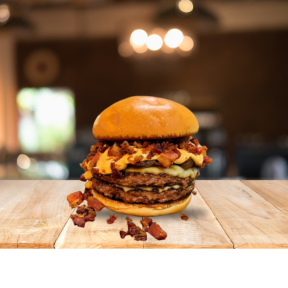
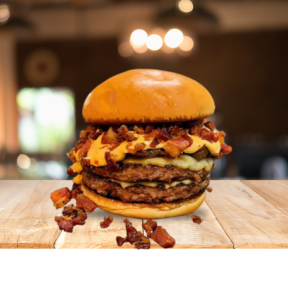
att
atualização de fotos

Changed region(s): [[0.1562, 0.2188, 0.8125, 0.875]]

diff --git a/app/page.tsx b/app/page.tsx
@@ -55,10 +55,10 @@ const featuredItems: MenuItem[] = [
   },
   {
     id: "2",
-    name: "Broka Selado",
-    description: "Especial com 30g de queijo assado na chapa, pão selado na manteiga, bacon em cubos, tomate e um blend bovino de 150g",
-    price: 25.99,
-    image: "/broka-selado.png",
+    name: "Broka Turbo",
+    description: "Especial com dois Blends bovino de de 150g cada! Pão selado na manteiga, bacon em cubos, dois blends bovino de 150g cada, duas fatias de queijo derretendo e cebola caramelizada.",
+    price: 39.99,
+    image: "/broka-turbo.png",
     extras: [
       { id: "blend", name: "+ blend bovino 150g", price: 4.10 },
       { id: "bacon", name: "+ bacon crocante 40g", price: 0.60 },
@@ -143,6 +143,19 @@ const allBurgers: MenuItem[] = [
     image: "/smash-egg-bacon.png",
     extras: [
       { id: "smash", name: "+ smash bovino 70g", price: 1.90 },
+      { id: "bacon", name: "+ bacon crocante 40g", price: 0.60 },
+      { id: "cheese", name: "+ fatia de queijo", price: 0.40 },
+      { id: "egg", name: "+ ovo frito", price: 1.0 },
+    ],
+  },
+  {
+    id: "9",
+    name: "Broka Selado",
+    description: "Especial com 30g de queijo assado na chapa, pão selado na manteiga, bacon em cubos, tomate e um blend bovino de 150g",
+    price: 25.99,
+    image: "/broka-selado.png",
+    extras: [
+      { id: "blend", name: "+ blend bovino 150g", price: 4.10 },
       { id: "bacon", name: "+ bacon crocante 40g", price: 0.60 },
       { id: "cheese", name: "+ fatia de queijo", price: 0.40 },
       { id: "egg", name: "+ ovo frito", price: 1.0 },
@@ -354,6 +367,7 @@ export default function HomePage() {
         <section id="menu" className="mb-12">
           <h2 className="font-serif text-2xl md:text-3xl font-bold text-center mb-2 text-slate-700">Destaques</h2>
           <p className="text-center text-slate-600 mb-8">Nossos hambúrgueres mais populares</p>
+          <p className="text-center text-yellow-400 mb-8">Deslise para o lado 👉</p>
 
           {/* Horizontal scroll for featured items */}
           <div className="flex gap-4 overflow-x-auto pb-4 mb-8">
